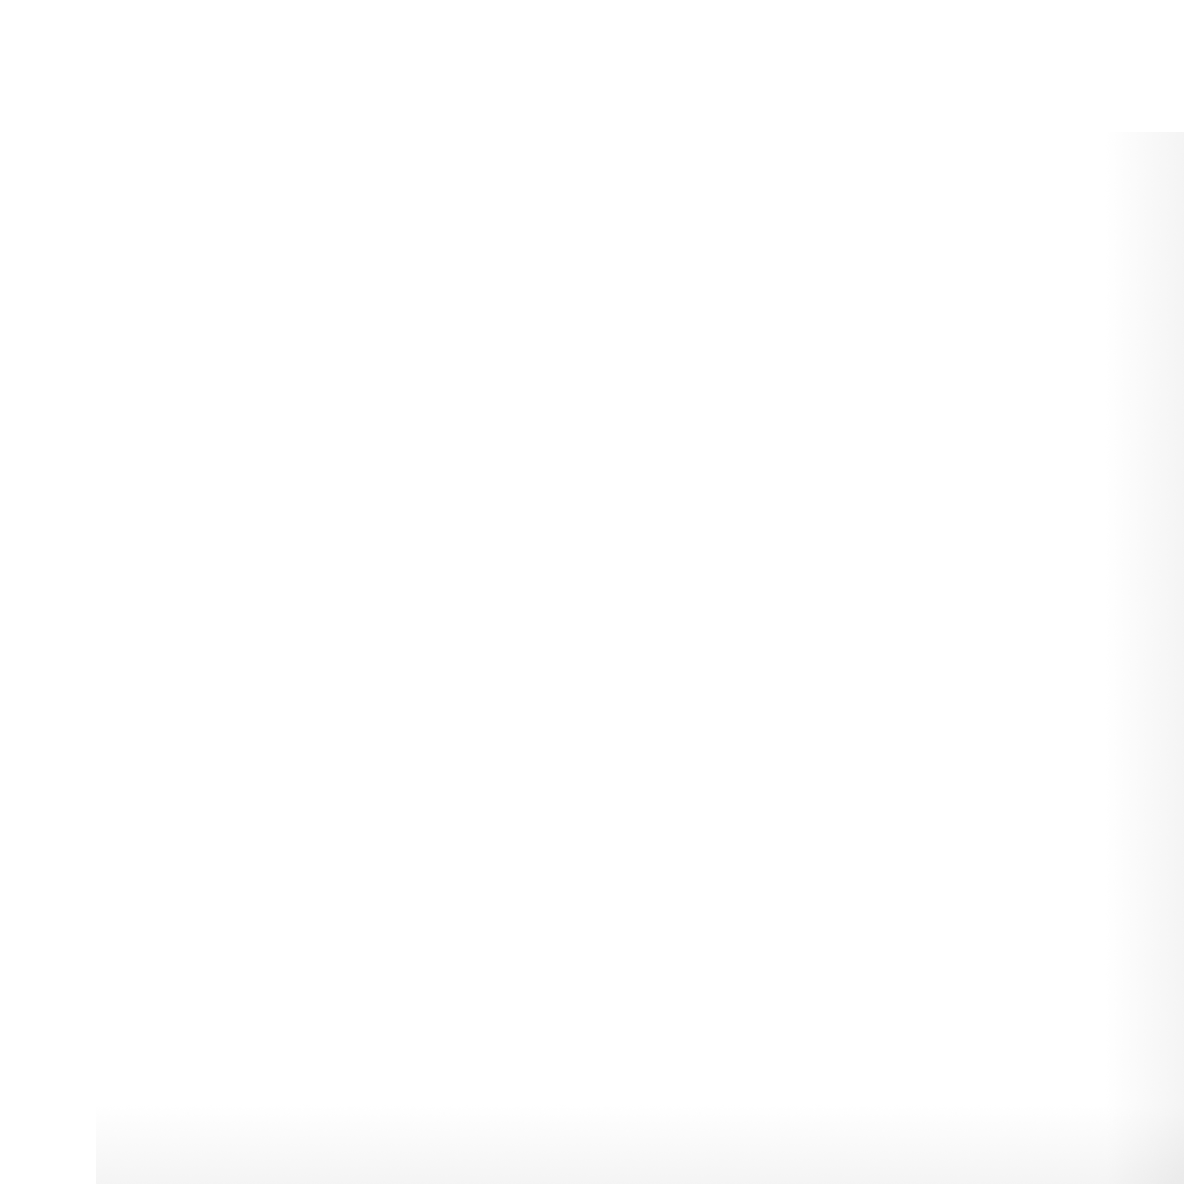
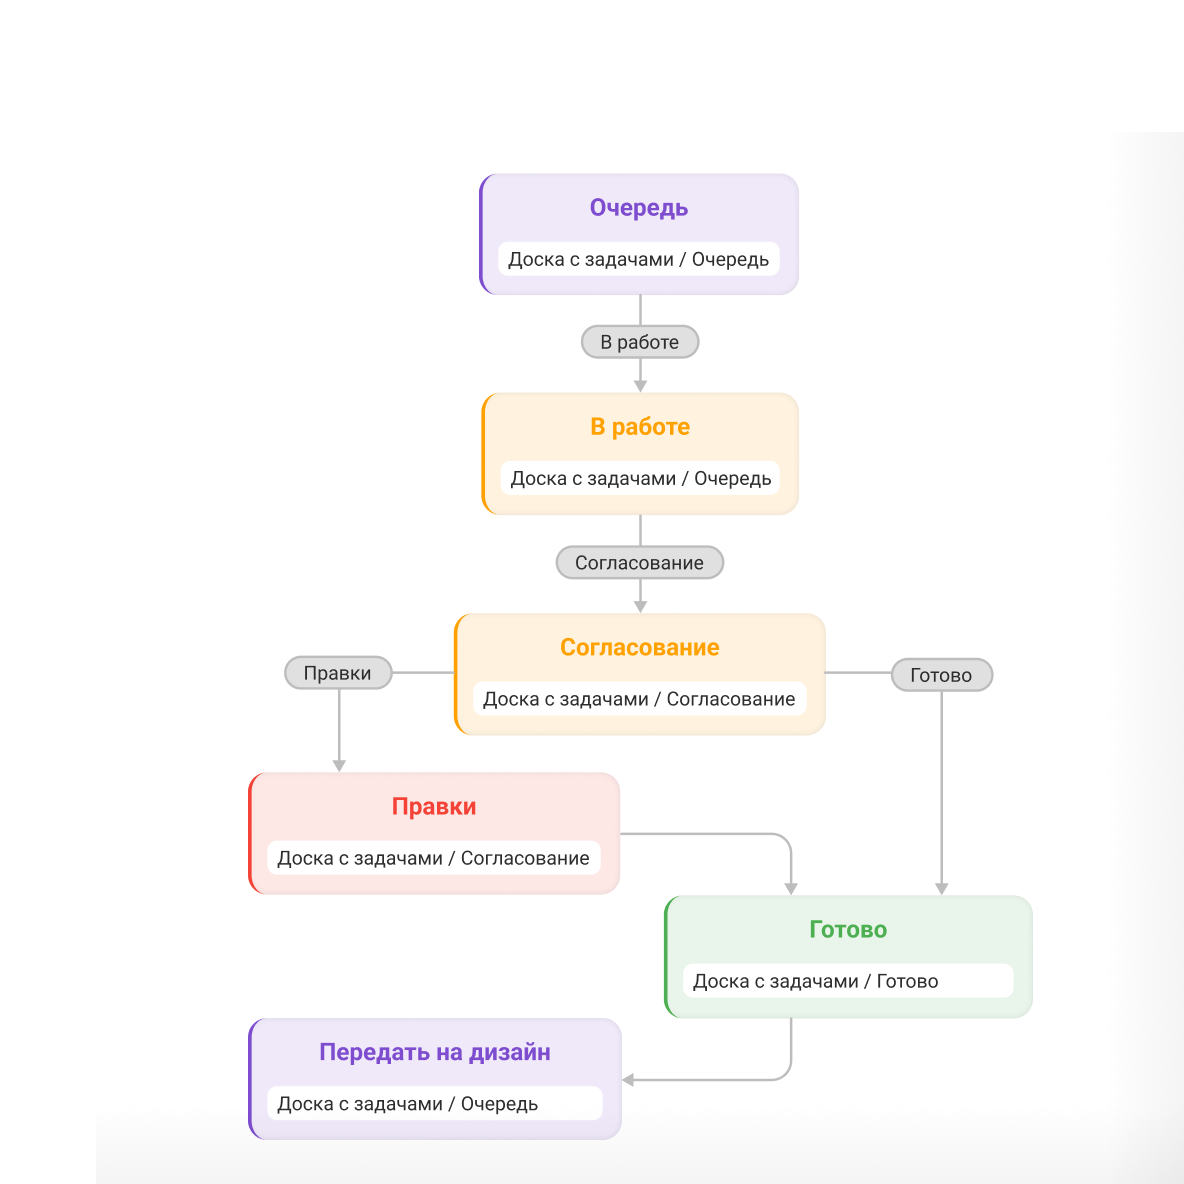
Wrike: дорожки внутрь доски hero, 1.png (схема воркфлоу) в 1-й пункт аккордеона

diff --git a/Сравнение Кайтен с Wrike/index.html b/Сравнение Кайтен с Wrike/index.html
@@ -64,22 +64,6 @@
       <div class="hsi" aria-hidden="true">
         <div class="stf" data-dw="1360"><div class="stf-inner">
         <div class="modstack">
-          <div class="mod mod--strip">
-            <div class="hdr">
-              <span class="grip"><i></i><i></i><i></i><i></i><i></i><i></i></span>
-              <span class="nm">Декомпозиция программ</span>
-              <span class="cnt3">21 карточка</span>
-              <span class="chev"><svg width="20" height="20" viewBox="0 0 24 24" fill="none" stroke="currentColor" stroke-width="2" stroke-linecap="round" stroke-linejoin="round"><path d="M6 9l6 6 6-6"/></svg></span>
-            </div>
-          </div>
-          <div class="mod mod--strip">
-            <div class="hdr">
-              <span class="grip"><i></i><i></i><i></i><i></i><i></i><i></i></span>
-              <span class="nm">Управленческий контур</span>
-              <span class="cnt3">5 карточек</span>
-              <span class="chev"><svg width="20" height="20" viewBox="0 0 24 24" fill="none" stroke="currentColor" stroke-width="2" stroke-linecap="round" stroke-linejoin="round"><path d="M6 9l6 6 6-6"/></svg></span>
-            </div>
-          </div>
           <div class="mod">
             <div class="hdr">
               <span class="grip"><i></i><i></i><i></i><i></i><i></i><i></i></span>
@@ -122,6 +106,14 @@
                 <div class="card"><div class="ct-row"><span class="ct">Пакет шаблонов для&nbsp;запусков</span></div><div class="row"><span class="szm">⚡ S</span></div><div class="tags"><span class="tag t-prod">Продукт</span><span class="tag t-urg">Срочно</span></div><div class="foot"><span class="avs"><span class="av ltr">ДК</span><span class="av ltr">МВ</span><span class="plus">+3</span></span><span class="due"><svg viewBox="0 0 24 24" fill="none" stroke="currentColor" stroke-width="2" stroke-linecap="round" stroke-linejoin="round"><path d="M8 2v4M16 2v4"/><rect x="3" y="4" width="18" height="18" rx="2"/><path d="M3 10h18"/></svg>3 июня</span></div></div>
                 <div class="card"><div class="ct-row"><span class="ct">Чеклист запуска продуктового эксперимента</span></div><div class="row"><span class="szm">⚡ S</span></div><div class="tags"><span class="tag t-prod">Продукт</span><span class="tag t-urg">Срочно</span></div><div class="range"><svg viewBox="0 0 24 24" fill="none" stroke="currentColor" stroke-width="2" stroke-linecap="round"><path d="M4 7h16M4 12h11M4 17h7"/></svg>20 мая — 3 июня</div><div class="foot"><span class="avs"><span class="av ltr">АС</span><span class="av ltr">Н</span><span class="plus">+2</span></span><span class="due"><svg viewBox="0 0 24 24" fill="none" stroke="currentColor" stroke-width="2" stroke-linecap="round" stroke-linejoin="round"><path d="M8 2v4M16 2v4"/><rect x="3" y="4" width="18" height="18" rx="2"/><path d="M3 10h18"/></svg>3 июня</span></div></div>
               </div>
+            </div>
+            <div class="lane lane--foot">
+              <span class="lnm">Декомпозиция программ</span><span class="cnt2">21</span>
+              <span class="chev"><svg width="18" height="18" viewBox="0 0 24 24" fill="none" stroke="currentColor" stroke-width="2" stroke-linecap="round" stroke-linejoin="round"><path d="M6 9l6 6 6-6"/></svg></span>
+            </div>
+            <div class="lane" style="border-bottom:0">
+              <span class="lnm">Управленческий контур</span><span class="cnt2">5</span>
+              <span class="chev"><svg width="18" height="18" viewBox="0 0 24 24" fill="none" stroke="currentColor" stroke-width="2" stroke-linecap="round" stroke-linejoin="round"><path d="M6 9l6 6 6-6"/></svg></span>
             </div>
           </div>
         </div>
@@ -202,35 +194,7 @@
       <div class="acc-item open">
         <button class="acc-head" type="button"><span class="acc-title">Кастомные рабочие процессы</span><span class="acc-ic"><svg viewBox="0 0 24 24" fill="none" stroke="currentColor" stroke-width="2" stroke-linecap="round" stroke-linejoin="round"><path d="M6 9l6 6 6-6"/></svg></span></button>
         <div class="acc-body"><p>Настройте статусы, этапы и&nbsp;правила переходов под&nbsp;процессы вашей команды. Используйте автоматизации для&nbsp;назначения ответственного, добавления чек-листа, уведомлений о&nbsp;сроках — без&nbsp;программирования</p><div class="acc-inline">
-          <div class="fm"><div class="card h180">
-        <div class="kbsh">
-          <div class="kbside" style="gap:5px;justify-content:center">
-            <span class="hd"></span>
-            <div class="kbrow"><span class="dot"></span><span class="ln" style="width:60%"></span></div>
-            <div class="kbrow"><span class="dot"></span><span class="ln" style="width:80%"></span></div>
-            <div class="pj"><i></i><b>Договор</b></div>
-            <div class="kbrow"><span class="dot"></span><span class="ln" style="width:60%"></span></div>
-            <div class="kbrow"><span class="dot"></span><span class="ln" style="width:78%"></span></div>
-            <div class="kbrow"><span class="dot"></span><span class="ln" style="width:60%"></span></div>
-            <div class="kbrow"><span class="dot"></span><span class="ln" style="width:80%"></span></div>
-            <div class="kbrow"><span class="dot"></span><span class="ln" style="width:60%"></span></div>
-          </div>
-          <div class="kbmain" style="display:flex;flex-direction:column">
-            <div class="bttl">Согласование договоров</div>
-            <div class="kboard" style="grid-template-columns:repeat(5,1fr)">
-              <div class="kcol"><div class="kh">Заявка</div><span class="kk n" style="height:16px"></span><span class="kk g" style="height:20px"></span></div>
-              <div class="kcol"><div class="kh">Провер…</div><span class="kk o" style="height:20px"></span><span class="kk n" style="height:16px"></span></div>
-              <div class="kcol"><div class="kh">Соглас…</div><span class="kk r" style="height:16px"></span><span class="kk o" style="height:20px"></span></div>
-              <div class="kcol"><div class="kh">Подпис…</div><span class="kk g" style="height:20px"></span><span class="kk n" style="height:16px"></span></div>
-              <div class="kcol"><div class="kh">Готово</div><span class="kk fg" style="height:16px"></span><span class="kk g" style="height:20px"></span></div>
-            </div>
-            <div style="margin-top:auto;display:flex;flex-direction:column;gap:6px;border-top:1px solid #eee;padding-top:8px">
-              <div class="row" style="gap:6px"><span class="cb on"></span><span class="lab" style="text-decoration:line-through">Проверить реквизиты</span></div>
-              <div class="row" style="gap:6px"><span class="cb"></span><span class="lab">Назначить согласующего</span></div>
-            </div>
-          </div>
-        </div>
-      </div></div>
+          <img src="assets/accordion/1.png" alt="Кастомный рабочий процесс в Кайтен: схема переходов между статусами" loading="lazy">
         </div></div>
       </div>
       <div class="acc-item">
@@ -256,34 +220,7 @@
     </div>
     <div class="acc-media">
       <div class="acc-panel on">
-        <div class="fm"><div class="card h180">
-        <div class="kbsh">
-          <div class="kbside" style="gap:5px;justify-content:center">
-            <span class="hd"></span>
-            <div class="kbrow"><span class="dot"></span><span class="ln" style="width:60%"></span></div>
-            <div class="kbrow"><span class="dot"></span><span class="ln" style="width:80%"></span></div>
-            <div class="pj"><i></i><b>Договор</b></div>
-            <div class="kbrow"><span class="dot"></span><span class="ln" style="width:60%"></span></div>
-            <div class="kbrow"><span class="dot"></span><span class="ln" style="width:78%"></span></div>
-            <div class="kbrow"><span class="dot"></span><span class="ln" style="width:60%"></span></div>
-            <div class="kbrow"><span class="dot"></span><span class="ln" style="width:80%"></span></div>
-            <div class="kbrow"><span class="dot"></span><span class="ln" style="width:60%"></span></div>
-          </div>
-          <div class="kbmain" style="display:flex;flex-direction:column">
-            <div class="bttl">Согласование договоров</div>
-            <div class="kboard" style="grid-template-columns:repeat(5,1fr)">
-              <div class="kcol"><div class="kh">Заявка</div><span class="kk n" style="height:16px"></span><span class="kk g" style="height:20px"></span></div>
-              <div class="kcol"><div class="kh">Провер…</div><span class="kk o" style="height:20px"></span><span class="kk n" style="height:16px"></span></div>
-              <div class="kcol"><div class="kh">Соглас…</div><span class="kk r" style="height:16px"></span><span class="kk o" style="height:20px"></span></div>
-              <div class="kcol"><div class="kh">Подпис…</div><span class="kk g" style="height:20px"></span><span class="kk n" style="height:16px"></span></div>
-              <div class="kcol"><div class="kh">Готово</div><span class="kk fg" style="height:16px"></span><span class="kk g" style="height:20px"></span></div>
-            </div>
-            <div style="margin-top:auto;display:flex;flex-direction:column;gap:6px;border-top:1px solid #eee;padding-top:8px">
-              <div class="row" style="gap:6px"><span class="cb on"></span><span class="lab" style="text-decoration:line-through">Проверить реквизиты</span></div>
-              <div class="row" style="gap:6px"><span class="cb"></span><span class="lab">Назначить согласующего</span></div>
-            </div>
-          </div>
-        </div>
+        <img src="assets/accordion/1.png" alt="Кастомный рабочий процесс в Кайтен: схема переходов между статусами">
       </div></div>
       </div>
       <div class="acc-panel">
